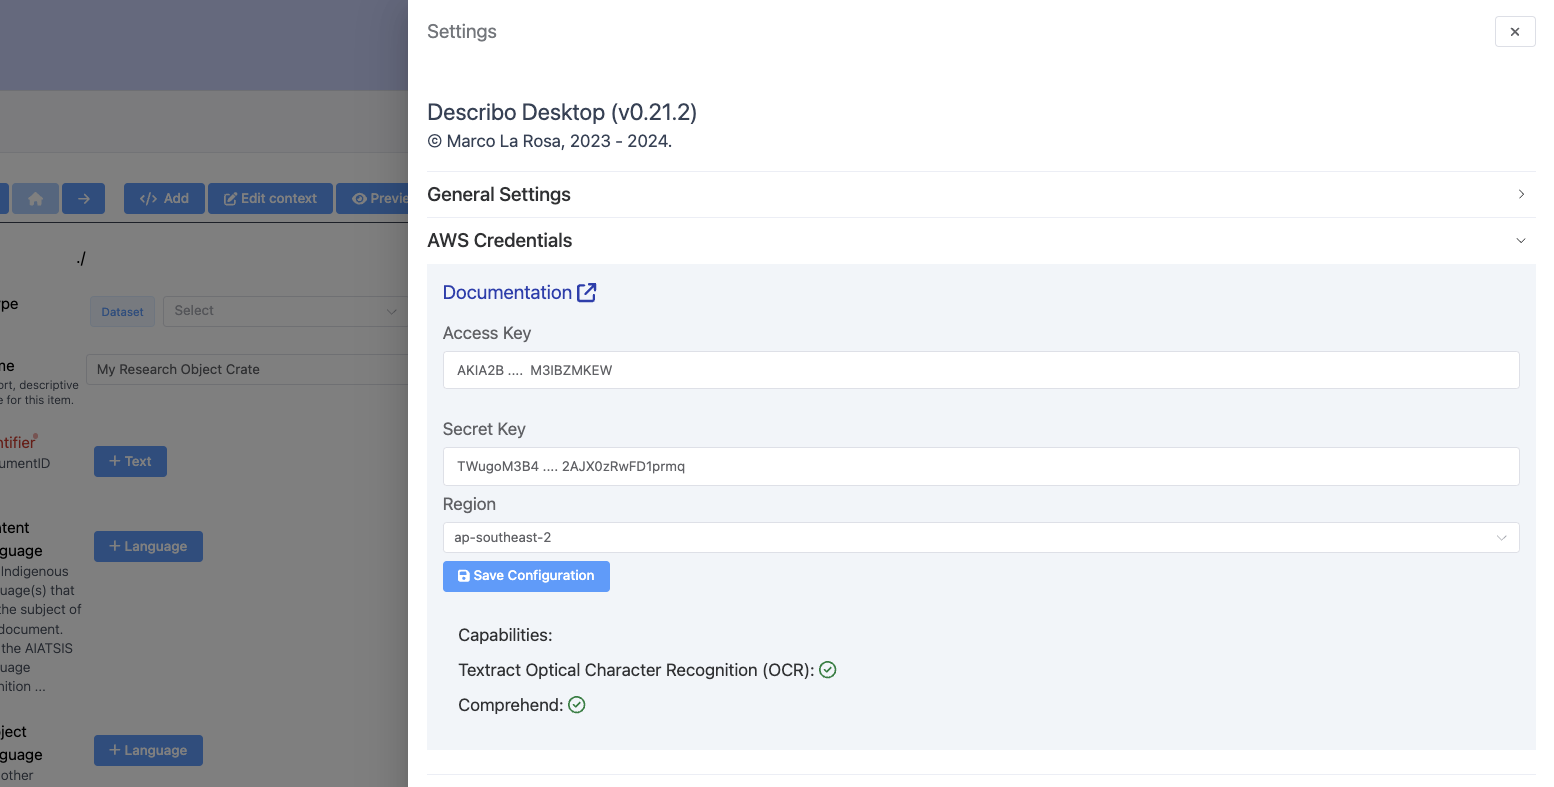
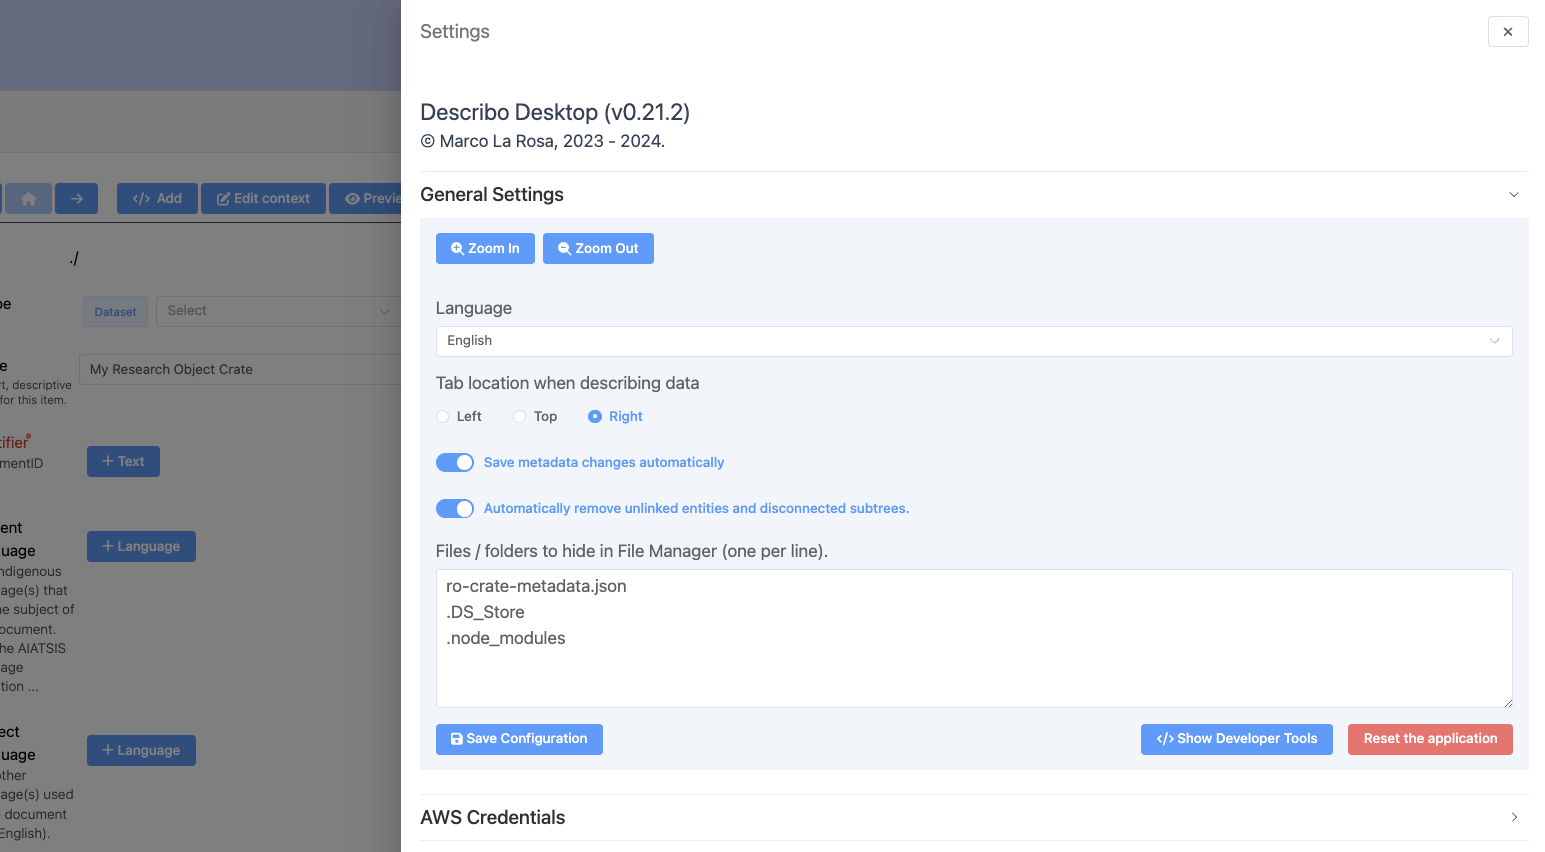
updating configuration documentation

diff --git a/sidebar-menu.js b/sidebar-menu.js
@@ -21,6 +21,10 @@ export const sidebar = [
                 collapsed: false,
                 items: [
                     {
+                        text: "General Settings",
+                        link: "/guide/configuration/general-settings",
+                    },
+                    {
                         text: "AWS integration",
                         link: "/guide/configuration/setting-up-aws",
                     },

diff --git a/src/guide/configuration/general-settings.md b/src/guide/configuration/general-settings.md
@@ -1,0 +1,38 @@
+---
+title: "General configuration"
+aside: true
+---
+
+# Configuring Describo
+
+<div class="flex flex-row border border-slate-200">
+    <img src="../images/configuration/configuration1.png" />
+</div>
+
+In the General Settings sections you can control the following:
+
+-   Zoom in and out to increase / decrease the font size of the application
+-   Set the language to use
+-   Configure where tabs are shown if defined in a profile
+-   Save metadata updates automatically on change
+-   Purge unlinked Entities. When an entity is unlinked, if it was only linked in one place then at
+    that point, it is not reachable via the graph. With this setting enabled, unlinked entities and
+    subtress will automatically be purged from the graph.
+-   Configure which files and folders the file manage should hide.
+
+Be sure to save the configuration when you're done.
+
+## Show Developer Tools
+
+As this application is in active development, from time to time there may be bugs and these will
+show up in what's called 'Developer Tools'. When reporting any issues you encounter, please
+`Show Developer Tools` and take a screenshot of the whole application.
+
+## Reset
+
+::: danger
+
+This is really only for development but you can use it too. This will delete all of the application
+internal state - including: your previously used profiles; all settings; credentials - everything!o
+
+:::

diff --git a/src/guide/configuration/setting-up-aws.md b/src/guide/configuration/setting-up-aws.md
@@ -40,7 +40,9 @@ Describo.
 
 Open `Settings` and then the section `AWS Credentials`.
 
-![credentials image](../images/configuration/configuration1.png)
+<div class="flex flex-row border border-slate-200">
+    <img src="../images/configuration/configuration2.png" />
+</div>
 
 Put the credentials as provided to you in the respective fields and then choose the region (which
 should also have been provided).
